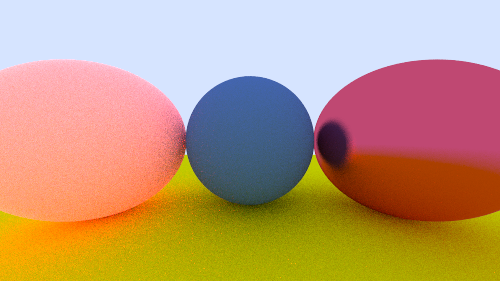
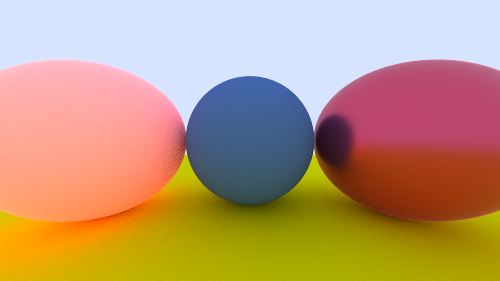
some interface changes to prepare for MIS

diff --git a/src/camera.rs b/src/camera.rs
@@ -172,17 +172,17 @@ impl Camera {
             };
 
             // TODO figure this out for real (MULTIPLE IMPORTANCE SAMPLING)
-            for light in world.get_lights() {
-                let result = world.shadow_ray(hit_info.point, light.position, ray.time());
-                if result {
-                    let light_dir = (light.position - hit_info.point).normalize();
-                    let len = (light.position - hit_info.point).length();
-                    let color = (light.power / (len * len))
-                        * hit_info.mat.eval(-ray.direction(), light_dir, &hit_info)
-                        / hit_info.mat.pdf(-ray.direction(), light_dir, &hit_info);
-                    radiance += throughput * color;
-                }
-            }
+            // for light in world.get_lights() {
+            //     let result = world.shadow_ray(hit_info.point, light.position, ray.time());
+            //     if result {
+            //         let light_dir = (light.position - hit_info.point).normalize();
+            //         let len = (light.position - hit_info.point).length();
+            //         let color = (light.power / (len * len))
+            //             * hit_info.mat.eval(-ray.direction(), light_dir, &hit_info)
+            //             / hit_info.mat.pdf(-ray.direction(), light_dir, &hit_info);
+            //         radiance += throughput * color;
+            //     }
+            // }
 
             let emission = hit_info.mat.emitted(hit_info.u, hit_info.v, hit_info.point);
             radiance += emission * throughput;

diff --git a/src/hittable/world.rs b/src/hittable/world.rs
@@ -7,6 +7,7 @@ use super::{BVHNode, HitInfo, Hittable, AABB, BVH};
 pub struct World {
     objects: Vec<Arc<dyn Hittable>>,
     lights: Vec<PointLight>, // indices of light sources
+    emissive_objects: Vec<usize>,
     bbox: AABB,
     bvh: Option<BVHNode>,
 }
@@ -16,6 +17,7 @@ impl World {
         World {
             objects: vec![],
             lights: vec![],
+            emissive_objects: vec![],
             bbox: AABB::default(),
             bvh: None,
         }
@@ -28,6 +30,11 @@ impl World {
     pub fn add<T: Hittable + 'static>(&mut self, obj: T) {
         self.bbox = AABB::union(self.bbox, obj.bounding_box());
         let rc = Arc::new(obj);
+        if let Some(ref mat) = rc.material() {
+            if mat.is_emissive() {
+                self.emissive_objects.push(self.objects.len());
+            }
+        }
         self.objects.push(rc.clone());
     }
 
@@ -44,6 +51,15 @@ impl World {
 
     pub fn get_lights(&self) -> &Vec<PointLight> {
         &self.lights
+    }
+
+    pub fn sample_emissive_objs(&self) -> Option<&Arc<dyn Hittable>> {
+        if self.emissive_objects.is_empty() {
+            None
+        } else {
+            let idx = rand::random::<usize>() % self.emissive_objects.len();
+            Some(&self.objects[self.emissive_objects[idx]])
+        }
     }
 }
 
@@ -74,5 +90,9 @@ impl Hittable for World {
 
     fn bounding_box(&self) -> AABB {
         self.bbox
+    }
+
+    fn material(&self) -> Option<&dyn crate::bsdf::BxDFMaterial> {
+        None
     }
 }

diff --git a/src/hittable/cuboid.rs b/src/hittable/cuboid.rs
@@ -4,6 +4,7 @@ use super::{Hittable, Quad, World};
 
 pub struct Cuboid {
     sides: World,
+    material: MatPtr,
 }
 
 impl Cuboid {
@@ -50,7 +51,10 @@ impl Cuboid {
             dz,
             mat.clone(),
         )); // bottom
-        Cuboid { sides }
+        Cuboid {
+            sides,
+            material: mat,
+        }
     }
 }
 
@@ -65,5 +69,9 @@ impl Hittable for Cuboid {
 
     fn bounding_box(&self) -> super::AABB {
         self.sides.bounding_box()
+    }
+
+    fn material(&self) -> Option<&dyn crate::bsdf::BxDFMaterial> {
+        Some(self.material.as_ref())
     }
 }

diff --git a/src/hittable/bvh.rs b/src/hittable/bvh.rs
@@ -1,4 +1,4 @@
-use crate::{hittable::HitInfo, interval::Interval, ray::Ray};
+use crate::{bsdf::BxDFMaterial, hittable::HitInfo, interval::Interval, ray::Ray};
 use std::{cmp::Ordering, sync::Arc};
 
 use super::{Hittable, AABB};
@@ -138,5 +138,9 @@ impl Hittable for BVHNode {
             BVHNode::Leaf { bbox, .. } => *bbox,
             BVHNode::Internal { bbox, .. } => *bbox,
         }
+    }
+
+    fn material(&self) -> Option<&dyn BxDFMaterial> {
+        None
     }
 }

diff --git a/src/hittable/mod.rs b/src/hittable/mod.rs
@@ -1,3 +1,4 @@
+use crate::bsdf::BxDFMaterial;
 use crate::{interval::Interval, ray::Ray};
 
 pub mod aabb;
@@ -27,4 +28,5 @@ pub use self::instance::*;
 pub trait Hittable: Send + Sync {
     fn intersects(&self, ray: &Ray, ray_t: Interval) -> Option<HitInfo>;
     fn bounding_box(&self) -> AABB;
+    fn material(&self) -> Option<&dyn BxDFMaterial>;
 }

diff --git a/src/bsdf/mod.rs b/src/bsdf/mod.rs
@@ -41,6 +41,10 @@ pub trait BxDFMaterial: Send + Sync {
     fn emitted(&self, _u: f64, _v: f64, _p: Vec3) -> Vec3 {
         Vec3::ZERO
     }
+
+    fn is_emissive(&self) -> bool {
+        false
+    }
 }
 
 pub type MatPtr = Arc<dyn BxDFMaterial>;

diff --git a/src/material.rs b/src/material.rs
@@ -184,6 +184,10 @@ impl BxDFMaterial for DiffuseLight {
     fn emitted(&self, u: f64, v: f64, p: Vec3) -> Vec3 {
         self.emission.value(u, v, &p)
     }
+
+    fn is_emissive(&self) -> bool {
+        true
+    }
 }
 
 // #[derive(Clone)]

diff --git a/src/hittable/sphere.rs b/src/hittable/sphere.rs
@@ -102,4 +102,8 @@ impl Hittable for Sphere {
     fn bounding_box(&self) -> AABB {
         self.bbox
     }
+
+    fn material(&self) -> Option<&dyn crate::bsdf::BxDFMaterial> {
+        Some(self.material.as_ref())
+    }
 }

diff --git a/src/hittable/quad.rs b/src/hittable/quad.rs
@@ -72,4 +72,8 @@ impl Hittable for Quad {
     fn bounding_box(&self) -> AABB {
         self.bbox
     }
+
+    fn material(&self) -> Option<&dyn crate::bsdf::BxDFMaterial> {
+        Some(self.material.as_ref())
+    }
 }

diff --git a/src/hittable/instance.rs b/src/hittable/instance.rs
@@ -54,4 +54,8 @@ impl Hittable for Instance {
     fn bounding_box(&self) -> AABB {
         self.bbox
     }
+
+    fn material(&self) -> Option<&dyn crate::bsdf::BxDFMaterial> {
+        self.object.material()
+    }
 }

diff --git a/src/main.rs b/src/main.rs
@@ -451,7 +451,7 @@ fn test_scene() {
 fn main() {
     env::set_var("RUST_BACKTRACE", "1");
 
-    let x = 4;
+    let x = 5;
     match x {
         1 => balls_scene(),
         2 => earth_scene(),
